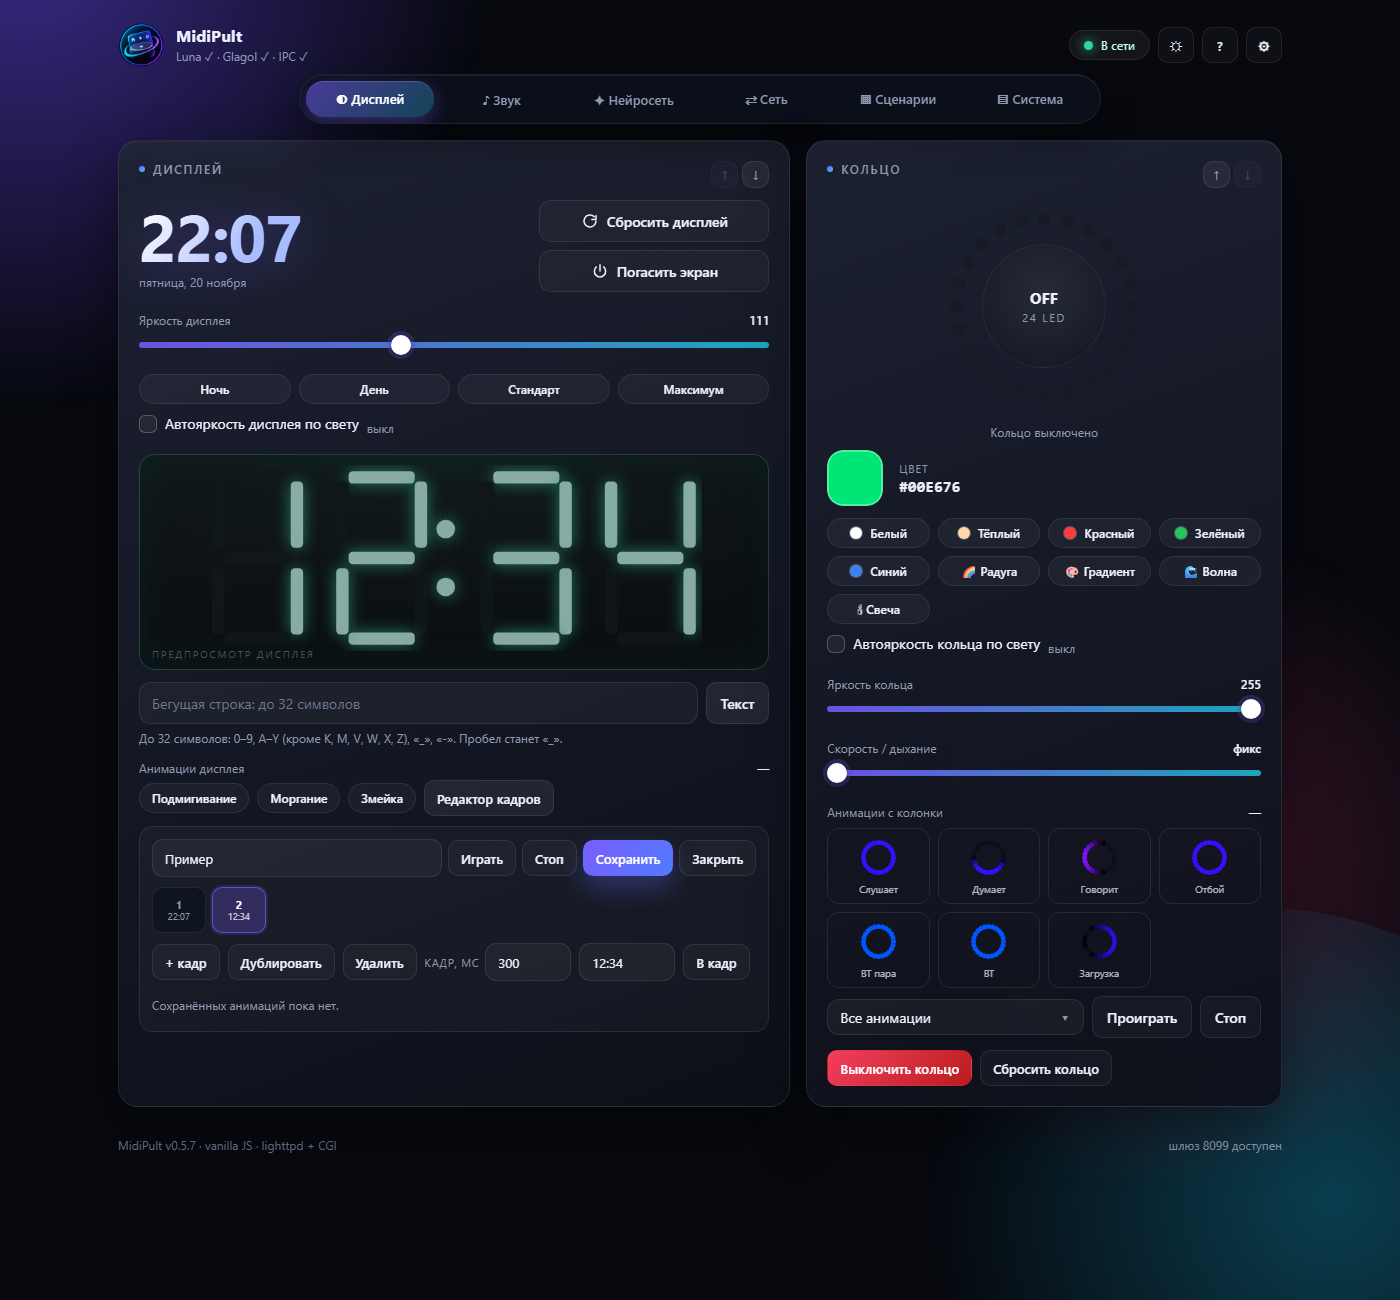
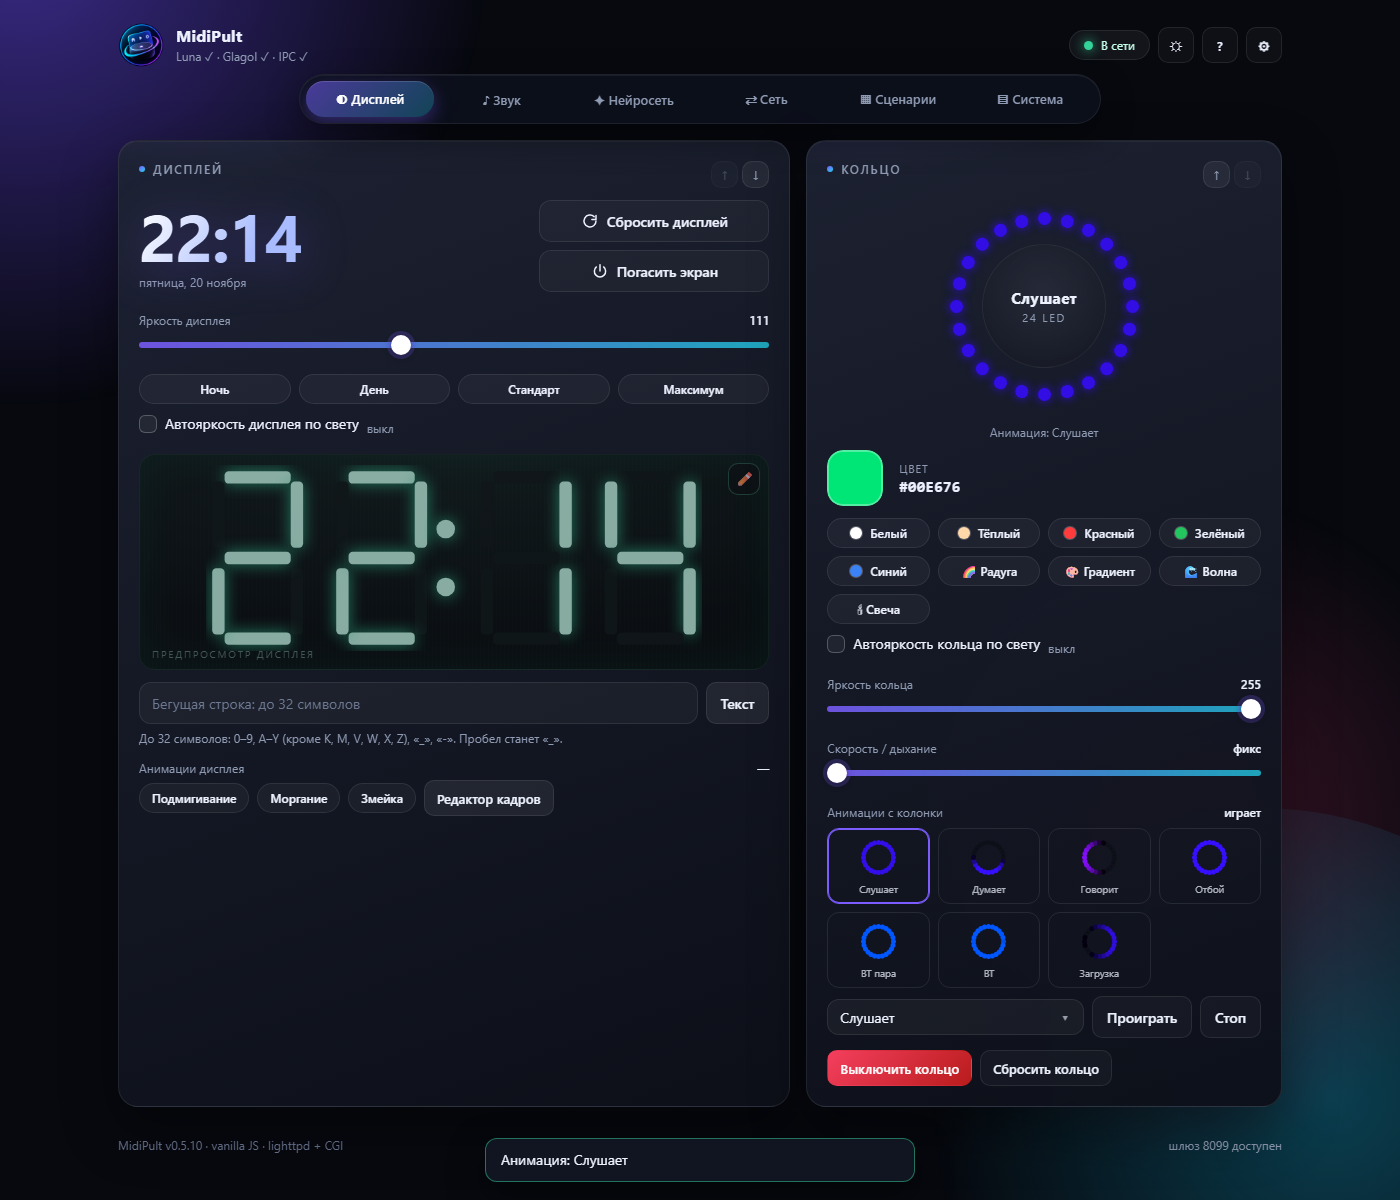
0.5.10: animate the ring preview with the firmware animation

diff --git a/index.html b/index.html
@@ -2286,6 +2286,7 @@ body.booting main.grid,body.booting .tabs,body.booting footer{visibility:hidden}
     ringBrightness: 255,
     ringSpeed: 0,
     ringAnimName: null,
+    ringPreview: null,
     blinkTimer: null,
     muted: false,
     llmAnswer: '',
@@ -2748,6 +2749,7 @@ body.booting main.grid,body.booting .tabs,body.booting footer{visibility:hidden}
   }
 
   function paintRing(colors, label) {
+    State.ringPreview = null;
     if (!ringDots.length) return;
     for (var i = 0; i < ringDots.length; i++) {
       var c = colors[i % colors.length];
@@ -2759,6 +2761,7 @@ body.booting main.grid,body.booting .tabs,body.booting footer{visibility:hidden}
   }
 
   function paintOff() {
+    State.ringPreview = null;
     ringDots.forEach(function (dot) {
       dot.style.background = '#171b26';
       dot.style.color = 'transparent';
@@ -6792,9 +6795,19 @@ body.booting main.grid,body.booting .tabs,body.booting footer{visibility:hidden}
       }
       applyAutoConfig(data.auto || {}, data.mode || {});
       if (el.ringAnimChips && data.animations) {
-        renderRingAnims(data.animations, data.animation ? State.ringAnimName : null);
+        var playingName = data.animation
+          ? (State.ringAnimName || data.animation_name || null) : null;
+        renderRingAnims(data.animations, playingName);
         if (el.ringAnimStatus) {
           el.ringAnimStatus.textContent = data.animation ? 'играет' : '—';
+        }
+        if (data.animation && playingName) startRingPreview(playingName);
+        else if (!data.animation) {
+          if (State.ringPreview) {
+            State.ringPreview = null;
+            paintOff();
+            el.ledHint.textContent = 'Кольцо выключено';
+          }
         }
       }
     }).catch(function () { /* тихо */ });
@@ -6839,6 +6852,38 @@ body.booting main.grid,body.booting .tabs,body.booting footer{visibility:hidden}
       tile.dots[i].style.background = 'rgb(' + r + ',' + g + ',' + b + ')';
       tile.dots[i].style.opacity = (r + g + b) > 12 ? '1' : '.2';
     }
+  }
+
+  function paintMainRingFrame(frame) {
+    if (!ringDots.length || !frame) return;
+    for (var i = 0; i < ringDots.length; i++) {
+      var hex = frame[i] || '000000';
+      var r = parseInt(hex.substr(0, 2), 16);
+      var g = parseInt(hex.substr(2, 2), 16);
+      var b = parseInt(hex.substr(4, 2), 16);
+      if (isNaN(r) || isNaN(g) || isNaN(b)) {
+        r = g = b = 0;
+      }
+      var color = 'rgb(' + r + ',' + g + ',' + b + ')';
+      ringDots[i].style.background = color;
+      ringDots[i].style.color = color;
+      ringDots[i].style.boxShadow = (r + g + b) > 12
+        ? '0 0 10px ' + color : 'none';
+    }
+  }
+
+  function startRingPreview(name) {
+    var playback = ringAnimFrames[name];
+    if (!playback || !playback.frames.length) {
+      return loadRingFrames(name).then(function (loaded) {
+        if (loaded && loaded.frames.length) startRingPreview(name);
+      });
+    }
+    if (State.ringPreview && State.ringPreview.name === name) return;
+    State.ringPreview = { name: name, index: playback.index || 0 };
+    el.ledHint.textContent = 'Анимация: ' + (RING_ANIM_LABELS[name] || name);
+    if (el.ringHex) el.ringHex.textContent = RING_ANIM_LABELS[name] || 'Анимация';
+    paintMainRingFrame(playback.frames[State.ringPreview.index]);
   }
 
   function loadRingFrames(name) {
@@ -6984,6 +7029,14 @@ body.booting main.grid,body.booting .tabs,body.booting footer{visibility:hidden}
   }
 
   function tickRingAnims() {
+    if (State.ringPreview) {
+      var preview = State.ringPreview;
+      var playback = ringAnimFrames[preview.name];
+      if (playback && playback.frames.length) {
+        preview.index = (preview.index + 1) % playback.frames.length;
+        paintMainRingFrame(playback.frames[preview.index]);
+      }
+    }
     Object.keys(ringAnimTiles).forEach(function (name) {
       var tile = ringAnimTiles[name];
       var playback = ringAnimFrames[name];
@@ -6999,7 +7052,7 @@ body.booting main.grid,body.booting .tabs,body.booting footer{visibility:hidden}
     return cgi('display.py', { ring_anim: name }, { timeout: 10000 }).then(function () {
       State.ringAnimName = name;
       markRingAnim(name);
-      loadRingFrames(name);
+      loadRingFrames(name).then(function () { startRingPreview(name); });
       toast('Анимация: ' + (RING_ANIM_LABELS[name] || name), 'ok');
     }).catch(function (err) {
       toast('Анимация: ' + err.message, 'bad');
@@ -7007,6 +7060,7 @@ body.booting main.grid,body.booting .tabs,body.booting footer{visibility:hidden}
   }
 
   function stopRingAnim() {
+    State.ringPreview = null;
     return cgi('display.py', { ring_anim_stop: 1 }, { timeout: 8000 }).then(function () {
       State.ringAnimName = null;
       markRingAnim(null);

diff --git a/cgi-bin/display.py b/cgi-bin/display.py
@@ -36,6 +36,7 @@ ANIM_DIRS = (
     "/system/vendor/quasar/ledpatterns/oknix",
 )
 ANIM_PID = "/tmp/mypult-ringanim.pid"
+ANIM_NAME = "/tmp/mypult-ringanim.name"
 RING_CURRENT = (
     "/sys/bus/i2c/devices/1-0034/current",
     "/sys/bus/i2c/devices/1-0035/current",
@@ -397,6 +398,17 @@ def animation_pid():
         return None
 
 
+def animation_name():
+    pid = animation_pid()
+    if not pid or not _pid_alive(pid):
+        return None
+    try:
+        with open(ANIM_NAME, "r", encoding="utf-8") as fh:
+            return fh.read().strip() or None
+    except OSError:
+        return None
+
+
 def animation_stop():
     pid = animation_pid()
     if pid:
@@ -418,6 +430,10 @@ def animation_stop():
                 pass
     try:
         os.remove(ANIM_PID)
+    except OSError:
+        pass
+    try:
+        os.remove(ANIM_NAME)
     except OSError:
         pass
     return True
@@ -452,6 +468,8 @@ def animation_play(name):
         raise RuntimeError("led_util не запустился: %s" % exc) from exc
     with open(ANIM_PID, "w", encoding="utf-8") as fh:
         fh.write(str(proc.pid))
+    with open(ANIM_NAME, "w", encoding="utf-8") as fh:
+        fh.write(name)
     time.sleep(0.4)
     if proc.poll() is not None:
         animation_stop()
@@ -695,6 +713,7 @@ def main():
         mode=load_mode(),
         animations=ring_animations(),
         animation=animation_pid() if _pid_alive(animation_pid() or 0) else None,
+        animation_name=animation_name(),
         clock_anims=clock_anims(),
     )
 

diff --git a/tests/static_checks.py b/tests/static_checks.py
@@ -543,6 +543,8 @@ def test_yapanel_features():
     check("будильник: один раз или повторять",
           'data-repeat="0"' in html and "alarmRepeat" in html
           and 'once: !State.alarmRepeat' in html)
+    check("кольцо: превью играющей анимации",
+          "State.ringPreview" in html and "animation_name" in display_py)
     check("UI: лайки и оверлей текста",
           all(token in html for token in (
               'id="btnLike"', 'id="btnDislike"', 'id="lyricsDlg"',

diff --git a/CHANGELOG.md b/CHANGELOG.md
@@ -5,6 +5,14 @@
 развивался итерациями `0.0.x`; полная история — в
 [docs/CHANGELOG-dev.md](docs/CHANGELOG-dev.md).
 
+## 0.5.10 — 2026-11-20
+
+- Кольцо: при проигрывании анимации верхний предпросмотр теперь показывает
+  те же кадры, что и на колонке, а не «Кольцо выключено»; в центре — название
+  анимации.
+- Имя запущенной анимации сохраняется, поэтому после перезагрузки панели
+  предпросмотр продолжает крутить её.
+- «Стоп» и выключение кольца возвращают предпросмотр в обычное состояние.
 ## 0.5.9 — 2026-11-20
 
 - Будильники: явный выбор **«Один раз» / «Повторять»**. Для повторяющегося

diff --git a/README.md b/README.md
@@ -16,7 +16,7 @@
 плеер и радио, голосовые команды, нейросеть по API, VPN, Bluetooth, Wi-Fi,
 сценарии с расписанием, резервные копии и диагностика.
 
-Текущая версия — **0.5.9**. Работает на самой колонке: `lighttpd` на порту **8055** + CGI на Python.
+Текущая версия — **0.5.10**. Работает на самой колонке: `lighttpd` на порту **8055** + CGI на Python.
 Интерфейс — один `index.html` на чистом HTML/CSS/JS, без React, Node и внешних CDN.
 
 [Репозиторий приложения Android](https://github.com/RoBiN19666/midipult-android)
